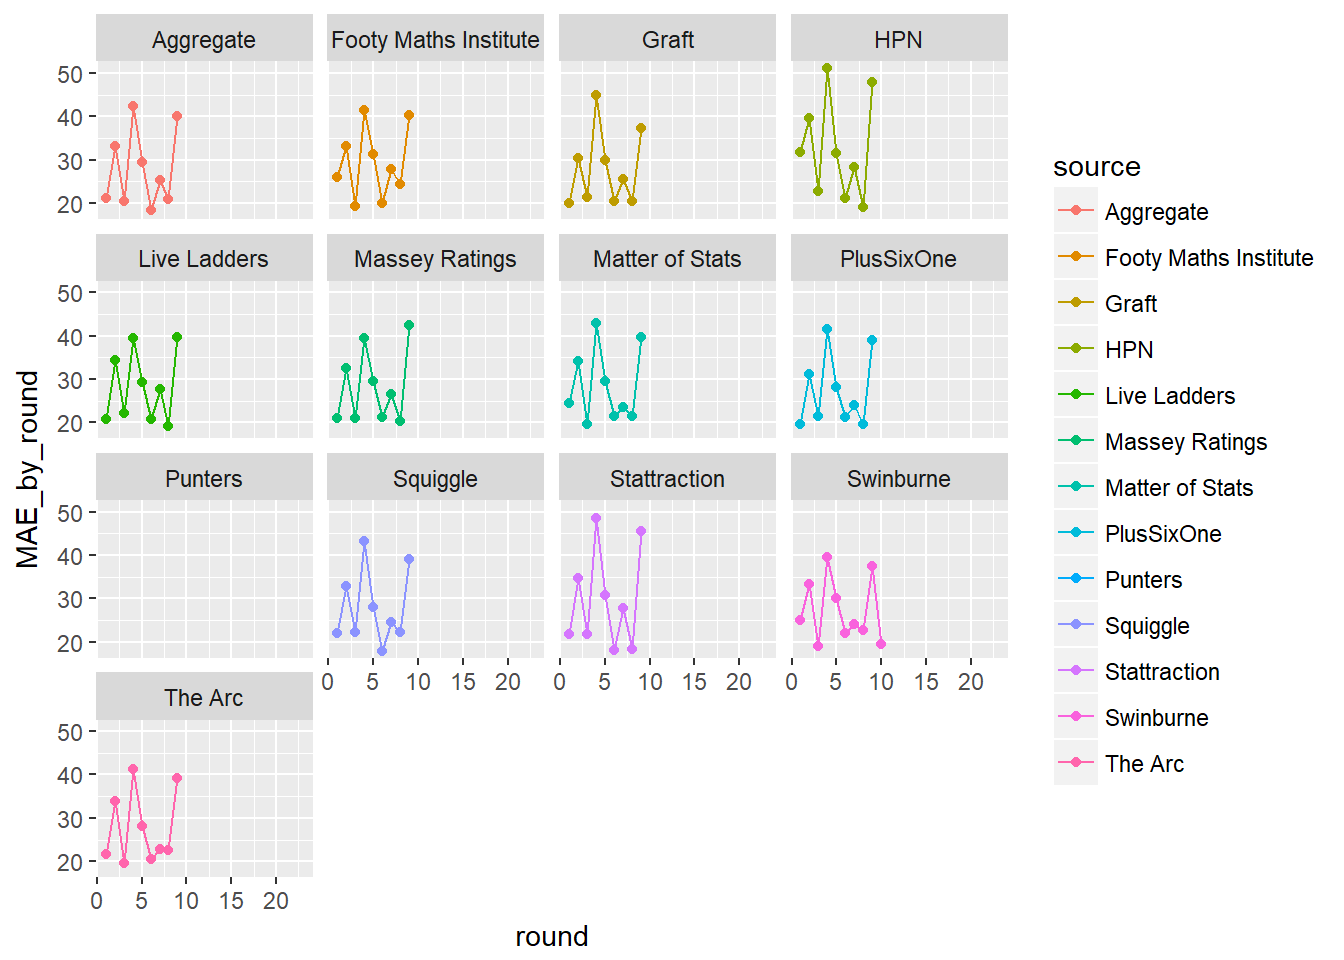
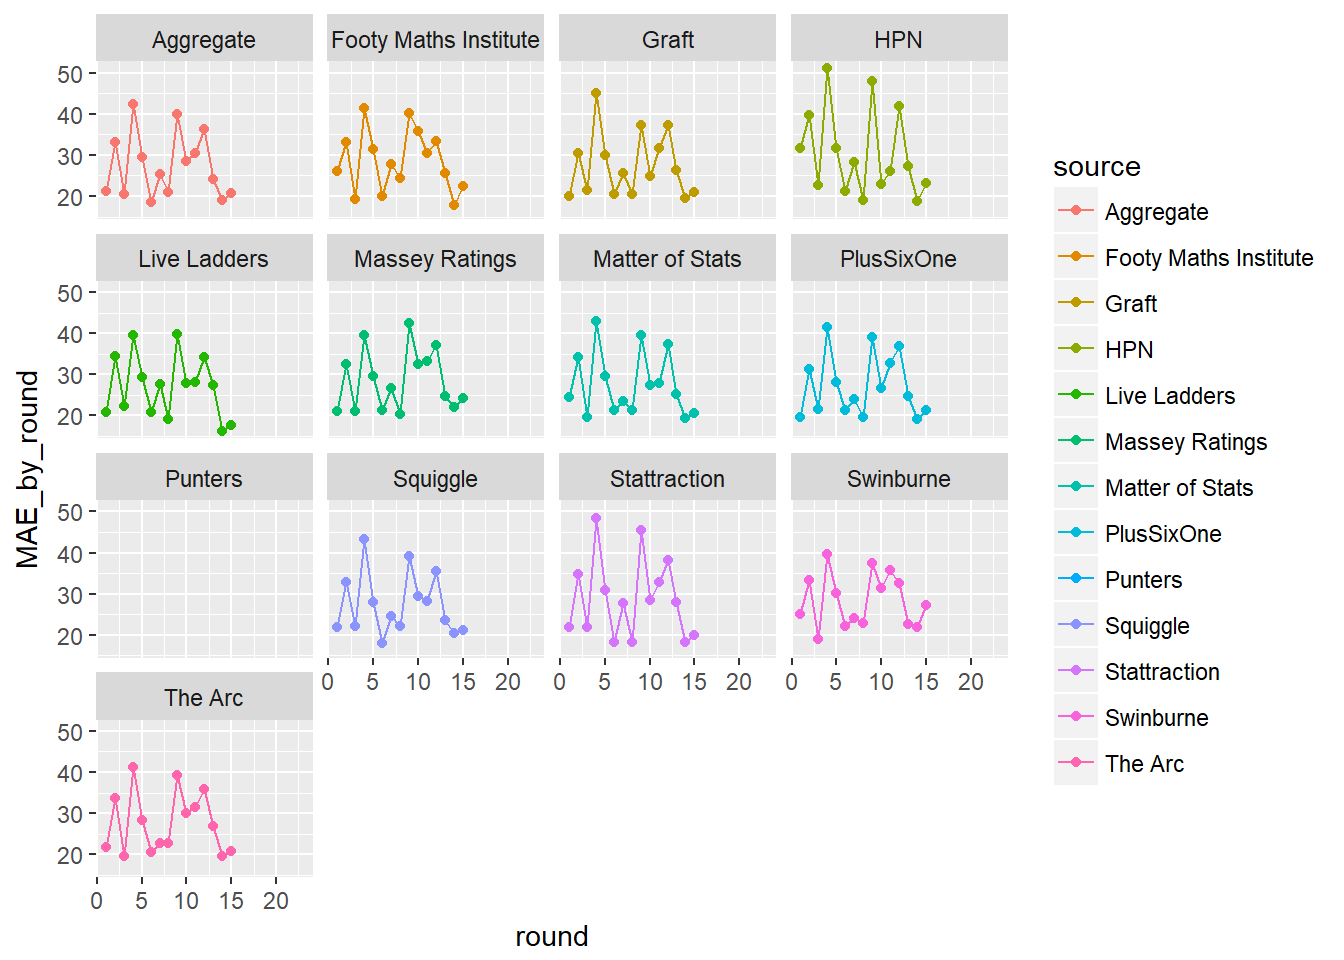
push
push

diff --git a/content/fitzRoy/2018-05-04-make-your-own-afl-graphs.html b/content/fitzRoy/2018-05-04-make-your-own-afl-graphs.html
@@ -25,12 +25,12 @@ install.packages(&quot;devtools&quot;)
 devtools::install_github(&quot;jimmyday12/fitzRoy&quot;)
 library(fitzRoy)
 library(tidyverse)</code></pre>
-<pre><code>## -- Attaching packages --------------------------------------------------------------- tidyverse 1.2.1 --</code></pre>
-<pre><code>## v ggplot2 2.2.1     v purrr   0.2.4
-## v tibble  1.4.2     v dplyr   0.7.4
-## v tidyr   0.8.0     v stringr 1.3.0
+<pre><code>## -- Attaching packages --------------------------------------------------- tidyverse 1.2.1 --</code></pre>
+<pre><code>## v ggplot2 2.2.1     v purrr   0.2.5
+## v tibble  1.4.2     v dplyr   0.7.5
+## v tidyr   0.8.1     v stringr 1.3.1
 ## v readr   1.1.1     v forcats 0.3.0</code></pre>
-<pre><code>## -- Conflicts ------------------------------------------------------------------ tidyverse_conflicts() --
+<pre><code>## -- Conflicts ------------------------------------------------------ tidyverse_conflicts() --
 ## x dplyr::filter() masks stats::filter()
 ## x dplyr::lag()    masks stats::lag()</code></pre>
 <pre class="r"><code>df&lt;-fitzRoy::afldata
@@ -106,34 +106,34 @@ ggplot(aes(x=Weight, y=Contested.Marks)) +
 tips &lt;- get_squiggle_data(&quot;tips&quot;)</code></pre>
 <pre><code>## Getting data from https://api.squiggle.com.au/?q=tips</code></pre>
 <pre class="r"><code>head(tips) </code></pre>
-<pre><code>##   hconfidence             updated year    bits   err
-## 1        50.0 2017-07-11 13:59:46 2017  0.0000 42.00
-## 2        42.0 2017-04-10 12:18:02 2017  0.2141    NA
-## 3        56.7 2017-07-11 13:59:46 2017 -0.2076 48.39
-## 4        37.3 2017-07-11 13:59:46 2017  0.3265  3.69
-## 5        38.0 2017-07-11 13:59:46 2017  0.3103  3.00
-## 6        50.0 2017-07-11 13:59:46 2017  0.0000 53.00
-##                    ateam confidence correct hteamid sourceid
-## 1               Richmond       50.0       1       3        1
-## 2               Richmond       58.0       1       3        3
-## 3               Richmond       56.7       0       3        4
-## 4       Western Bulldogs       62.7       1       4        4
-## 5       Western Bulldogs       62.0       1       4        1
-## 6 Greater Western Sydney       50.0       1       1        1
-##            source       hteam         venue              tip gameid round
-## 1        Squiggle     Carlton        M.C.G.         Richmond      1     1
-## 2  Figuring Footy     Carlton        M.C.G.         Richmond      1     1
-## 3 Matter of Stats     Carlton        M.C.G.          Carlton      1     1
-## 4 Matter of Stats Collingwood        M.C.G. Western Bulldogs      2     1
-## 5        Squiggle Collingwood        M.C.G. Western Bulldogs      2     1
-## 6        Squiggle    Adelaide Adelaide Oval         Adelaide      8     1
-##   margin                date tipteamid ateamid
-## 1   1.00 2017-03-23 19:20:00        14      14
-## 2     NA 2017-03-23 19:20:00        14      14
-## 3   5.39 2017-03-23 19:20:00         3      14
-## 4  10.31 2017-03-24 19:50:00        18      18
-## 5  17.00 2017-03-24 19:50:00        18      18
-## 6   3.00 2017-03-26 15:20:00         1       9</code></pre>
+<pre><code>##   gameid          source                  ateam hteamid round year
+## 1      1        Squiggle               Richmond       3     1 2017
+## 2      1  Figuring Footy               Richmond       3     1 2017
+## 3      1 Matter of Stats               Richmond       3     1 2017
+## 4      2 Matter of Stats       Western Bulldogs       4     1 2017
+## 5      2        Squiggle       Western Bulldogs       4     1 2017
+## 6      8        Squiggle Greater Western Sydney       1     1 2017
+##         hteam             updated ateamid confidence                date
+## 1     Carlton 2017-07-11 13:59:46      14       50.0 2017-03-23 19:20:00
+## 2     Carlton 2017-04-10 12:18:02      14       58.0 2017-03-23 19:20:00
+## 3     Carlton 2017-07-11 13:59:46      14       56.7 2017-03-23 19:20:00
+## 4 Collingwood 2017-07-11 13:59:46      18       62.7 2017-03-24 19:50:00
+## 5 Collingwood 2017-07-11 13:59:46      18       62.0 2017-03-24 19:50:00
+## 6    Adelaide 2017-07-11 13:59:46       9       50.0 2017-03-26 15:20:00
+##   tipteamid   err hconfidence         venue margin sourceid    bits
+## 1        14 42.00        50.0        M.C.G.   1.00        1  0.0000
+## 2        14    NA        42.0        M.C.G.     NA        3  0.2141
+## 3         3 48.39        56.7        M.C.G.   5.39        4 -0.2076
+## 4        18  3.69        37.3        M.C.G.  10.31        4  0.3265
+## 5        18  3.00        38.0        M.C.G.  17.00        1  0.3103
+## 6         1 53.00        50.0 Adelaide Oval   3.00        1  0.0000
+##                tip correct
+## 1         Richmond       1
+## 2         Richmond       1
+## 3          Carlton       0
+## 4 Western Bulldogs       1
+## 5 Western Bulldogs       1
+## 6         Adelaide       1</code></pre>
 <div id="getting-data-in-the-right-format" class="section level2">
 <h2>Getting data in the right format</h2>
 <p>What do I actually want to visualise here?</p>
@@ -142,7 +142,7 @@ tips &lt;- get_squiggle_data(&quot;tips&quot;)</code></pre>
   filter(year&gt;2017)%&gt;%
    group_by(round, source)%&gt;%
    summarise(MAE_by_round=mean(err))</code></pre>
-<pre><code>## # A tibble: 210 x 3
+<pre><code>## # A tibble: 246 x 3
 ## # Groups:   round [?]
 ##    round source                MAE_by_round
 ##    &lt;int&gt; &lt;chr&gt;                        &lt;dbl&gt;
@@ -156,7 +156,7 @@ tips &lt;- get_squiggle_data(&quot;tips&quot;)</code></pre>
 ##  8     1 PlusSixOne                    19.7
 ##  9     1 Punters                       NA  
 ## 10     1 Squiggle                      22  
-## # ... with 200 more rows</code></pre>
+## # ... with 236 more rows</code></pre>
 <p>Now that we have our data in the right format for plotting lets you know get plotting!</p>
 <pre class="r"><code>tips%&gt;%
   filter(year&gt;2017)%&gt;%
@@ -164,7 +164,7 @@ tips &lt;- get_squiggle_data(&quot;tips&quot;)</code></pre>
    summarise(MAE_by_round=mean(err))%&gt;%
   ggplot(aes(x=round, y=MAE_by_round))+ 
   geom_point()</code></pre>
-<pre><code>## Warning: Removed 101 rows containing missing values (geom_point).</code></pre>
+<pre><code>## Warning: Removed 66 rows containing missing values (geom_point).</code></pre>
 <p><img src="/fitzRoy/2018-05-04-make-your-own-afl-graphs_files/figure-html/unnamed-chunk-8-1.png" width="672" /></p>
 <p>So what can we see here? We can see the average MAE by tipster by round for 2018. The problem is we can’t identify which tipster is who. So how can we do that? Just add colour.</p>
 <pre class="r"><code>tips%&gt;%
@@ -173,7 +173,7 @@ tips &lt;- get_squiggle_data(&quot;tips&quot;)</code></pre>
    summarise(MAE_by_round=mean(err))%&gt;%
   ggplot(aes(x=round, y=MAE_by_round))+ 
   geom_point(aes(colour=source))</code></pre>
-<pre><code>## Warning: Removed 101 rows containing missing values (geom_point).</code></pre>
+<pre><code>## Warning: Removed 66 rows containing missing values (geom_point).</code></pre>
 <p><img src="/fitzRoy/2018-05-04-make-your-own-afl-graphs_files/figure-html/unnamed-chunk-9-1.png" width="672" /></p>
 <p>Ok now that we have added some colour things are still hard to see, so what if we joined each point for the respective tipster?</p>
 <pre class="r"><code>tips%&gt;%
@@ -183,8 +183,8 @@ tips &lt;- get_squiggle_data(&quot;tips&quot;)</code></pre>
   ggplot(aes(x=round, y=MAE_by_round))+ 
   geom_point(aes(colour=source)) +
   geom_line(aes(group=source, colour=source))</code></pre>
-<pre><code>## Warning: Removed 101 rows containing missing values (geom_point).</code></pre>
-<pre><code>## Warning: Removed 89 rows containing missing values (geom_path).</code></pre>
+<pre><code>## Warning: Removed 66 rows containing missing values (geom_point).</code></pre>
+<pre><code>## Warning: Removed 50 rows containing missing values (geom_path).</code></pre>
 <p><img src="/fitzRoy/2018-05-04-make-your-own-afl-graphs_files/figure-html/unnamed-chunk-10-1.png" width="672" /></p>
 <p>Ok so now things are a bit clearer but still not as clear as we would like. Its hard to get a feel for each individual tipster because all the points are fairly close which makes our lines close together so disentanglement becomes difficult. This is where faceting or small multiples comes in handy.</p>
 <pre class="r"><code>tips%&gt;%
@@ -194,9 +194,9 @@ tips &lt;- get_squiggle_data(&quot;tips&quot;)</code></pre>
   ggplot(aes(x=round, y=MAE_by_round))+ 
   geom_point(aes(colour=source)) +
   geom_line(aes(group=source, colour=source)) +facet_wrap(~source)</code></pre>
-<pre><code>## Warning: Removed 101 rows containing missing values (geom_point).</code></pre>
-<pre><code>## Warning: Removed 89 rows containing missing values (geom_path).</code></pre>
+<pre><code>## Warning: Removed 66 rows containing missing values (geom_point).</code></pre>
+<pre><code>## Warning: Removed 50 rows containing missing values (geom_path).</code></pre>
 <p><img src="/fitzRoy/2018-05-04-make-your-own-afl-graphs_files/figure-html/unnamed-chunk-11-1.png" width="672" /></p>
-<p>There you go how cool is that.</p>
+<p>There you go how cool is that!</p>
 </div>
 </div>

diff --git a/content/fitzRoy/2018-06-30-exploring-different-squigglers-hga.html b/content/fitzRoy/2018-06-30-exploring-different-squigglers-hga.html
@@ -11,12 +11,12 @@ tags : ["fitzRoy", "open science", "modelling"]
 
 <pre class="r"><code>library(fitzRoy)
 library(tidyverse)</code></pre>
-<pre><code>## -- Attaching packages -------------------------------- tidyverse 1.2.1 --</code></pre>
+<pre><code>## -- Attaching packages --------------------------------------------------- tidyverse 1.2.1 --</code></pre>
 <pre><code>## v ggplot2 2.2.1     v purrr   0.2.5
 ## v tibble  1.4.2     v dplyr   0.7.5
 ## v tidyr   0.8.1     v stringr 1.3.1
 ## v readr   1.1.1     v forcats 0.3.0</code></pre>
-<pre><code>## -- Conflicts ----------------------------------- tidyverse_conflicts() --
+<pre><code>## -- Conflicts ------------------------------------------------------ tidyverse_conflicts() --
 ## x dplyr::filter() masks stats::filter()
 ## x dplyr::lag()    masks stats::lag()</code></pre>
 <pre class="r"><code>library(lubridate)</code></pre>
@@ -57,10 +57,10 @@ unique(afltables$Home.Team)</code></pre>
 ##  [9] &quot;Away.Goals&quot;   &quot;Away.Behinds&quot; &quot;Away.Points&quot;  &quot;Venue&quot;       
 ## [13] &quot;Margin&quot;       &quot;Season&quot;       &quot;Round.Type&quot;   &quot;Round.Number&quot;</code></pre>
 <pre class="r"><code>names(tips)</code></pre>
-<pre><code>##  [1] &quot;hteamid&quot;     &quot;gameid&quot;      &quot;bits&quot;        &quot;date&quot;        &quot;round&quot;      
-##  [6] &quot;hconfidence&quot; &quot;ateamid&quot;     &quot;venue&quot;       &quot;margin&quot;      &quot;tipteamid&quot;  
-## [11] &quot;year&quot;        &quot;updated&quot;     &quot;hteam&quot;       &quot;tip&quot;         &quot;sourceid&quot;   
-## [16] &quot;correct&quot;     &quot;err&quot;         &quot;confidence&quot;  &quot;source&quot;      &quot;ateam&quot;</code></pre>
+<pre><code>##  [1] &quot;venue&quot;       &quot;hteamid&quot;     &quot;tip&quot;         &quot;correct&quot;     &quot;date&quot;       
+##  [6] &quot;round&quot;       &quot;ateam&quot;       &quot;bits&quot;        &quot;year&quot;        &quot;confidence&quot; 
+## [11] &quot;updated&quot;     &quot;tipteamid&quot;   &quot;gameid&quot;      &quot;ateamid&quot;     &quot;err&quot;        
+## [16] &quot;sourceid&quot;    &quot;margin&quot;      &quot;source&quot;      &quot;hconfidence&quot; &quot;hteam&quot;</code></pre>
 <pre class="r"><code>tips$date&lt;-ymd_hms(tips$date)
 
 tips$date&lt;-as.Date(tips$date)
@@ -99,3 +99,21 @@ abline(c(0,1),col=&quot;purple&quot;)
 lines(df$hconfidence[predSort$ix],predSort$x+2*preds$se.fit[predSort$ix])
 lines(df$hconfidence[predSort$ix],predSort$x-2*preds$se.fit[predSort$ix])</code></pre>
 <p><img src="/fitzRoy/2018-06-30-exploring-different-squigglers-hga_files/figure-html/unnamed-chunk-1-1.png" width="672" /></p>
+<pre class="r"><code># predicting winners
+ft=gam(I(actualhomemargin&gt;0)~s(hconfidence),data=df,family=&quot;binomial&quot;,sp=0.05)
+# the 0.05 was to make it a bit wiggly but not too silly (the default was not monotonically increasing, which is silly)
+plot(ft,rug=FALSE,trans=binomial()$linkinv)
+abline(h=0.5,col=&quot;blue&quot;)
+abline(v=0.5,col=&quot;blue&quot;)
+abline(c(0,1),col=&quot;purple&quot;)</code></pre>
+<p><img src="/fitzRoy/2018-06-30-exploring-different-squigglers-hga_files/figure-html/unnamed-chunk-1-2.png" width="672" /></p>
+<pre class="r"><code># predicting margins
+ft=gam(actualhomemargin~s(hconfidence),data=df)
+plot(ft,rug=FALSE,residual=TRUE,pch=1,cex=0.4)
+abline(h=0.5,col=&quot;blue&quot;)
+abline(v=0.5,col=&quot;blue&quot;)
+
+# add squiggle margins to the plot
+confSort = sort(df$hconfidence,index.return=TRUE)
+lines(confSort$x,df$squigglehomemargin[confSort$ix],col=&quot;purple&quot;)</code></pre>
+<p><img src="/fitzRoy/2018-06-30-exploring-different-squigglers-hga_files/figure-html/unnamed-chunk-1-3.png" width="672" /></p>
